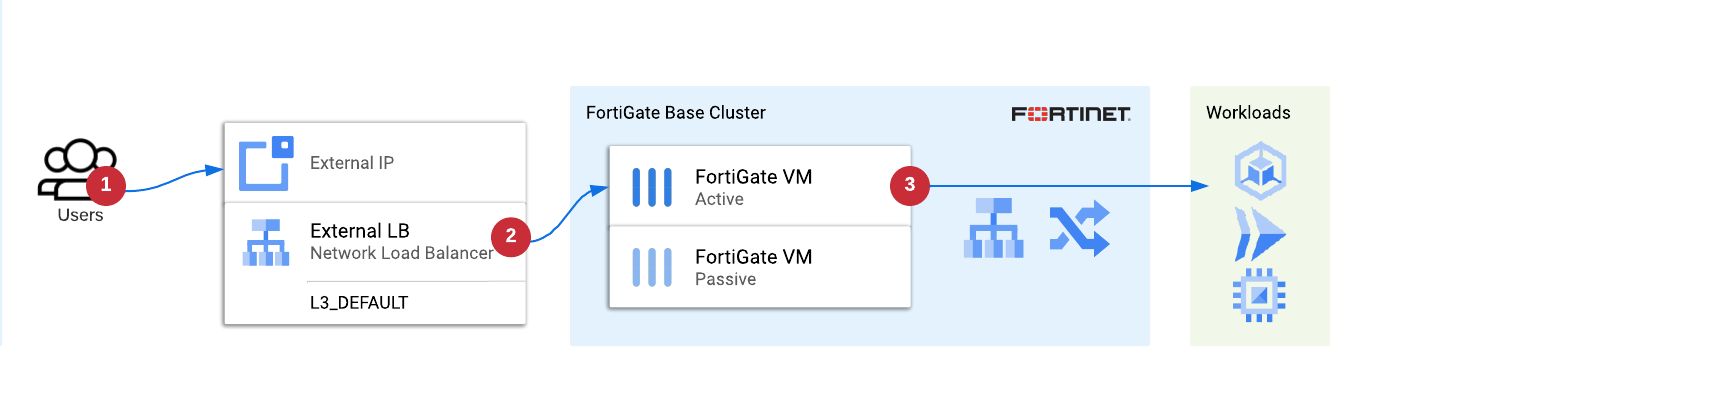
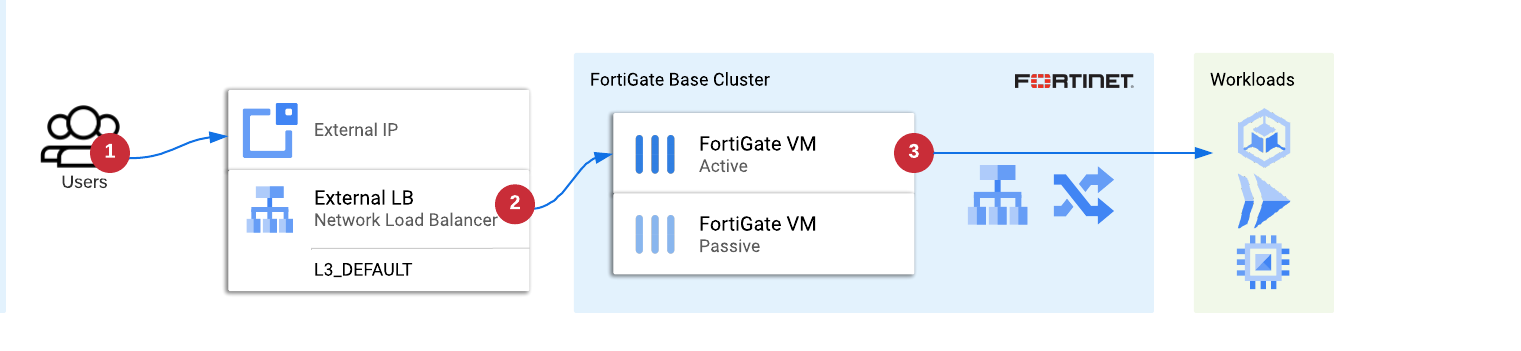
doc updates

Changed region(s): [[0.0, 0.1425, 0.8652, 0.9117], [0.0, 0.8262, 0.0309, 0.8832]]

diff --git a/FortiGate/architectures/reference/ha.md b/FortiGate/architectures/reference/ha.md
@@ -1,0 +1,50 @@
+#### FortiGate Reference Architecture for GCP
+# FortiGate HA Cluster Base
+
+Regardless of the placing of your FortiGate VM instances in GCP infrastructure some parts of the architecture are common for all use-cases. This article describes the recommended design for the cluster, prerequisites and some best practices.
+
+## Prerequisites
+Before deploying FortiGate VMs you need to prepare 2 types of resources:
+1. Service account
+1. VPC Networks and subnets
+
+**Service account** is a type of GCP IAM account dedicated for use by VMs and services. When deploying any VM in GCP you can assign it a service account, which the VM will be using to connect to GCP APIs. VM can download temporary tokens for its service account from the private metadata service (169.254.169.254) thus removing the necessity to manually handle service account keys (generating keys for service account should be always your last option).
+
+FortiGate uses service account during boot-up to verify it actually is running in Google Cloud, as well as in Fabric Connector (a.k.a. SDN Connector) so it can use of metadata instead of IP addresses in firewall address objects. By default all new VMs are assigned the built-in *Default Compute Engine Service Account*, which by default has project Owner role. Following the minimum privilege principle you SHOULD create a dedicated role and account for your FortiGate appliances. Check [here](../docs/sdn_privileges.md) how to create them and what are the required privileges your FortiGates do need.
+
+**VPC Networks and subnets** - as FortiGates will be deployed as multi-NIC VMs and in Google Cloud each NIC of a VM instance must be connected to a separate VPC Network, you MUST create 4 (four) separate VPC Networks and subnets. Subnets MUST be in the same region as the FortiGates and cannot have overlapping IP ranges. The templates allocate static IP addresses automatically so there's no need for the subnets to be empty.
+
+## VM instances and networks
+FortiGates are deployed as 2 VM instances in 2 different availability zones of the same region, with 4 NICs each:
+- port1 (nic0) - external (untrusted) traffic
+- port2 (nic1) - internal (trusted) traffic
+- port3 (nic2) - heartbeat and FGCP configuration sync
+- port4 (nic3) - dedicated management interface
+
+*Note that more internal NICs might be needed if the number of security zones (VPCs) in east-west segmentation use-case exceeds maximum size of a peering group (25).*
+
+*Note2: starting from firmware 7.0 you can use the same NIC for FGCP heartbeat and management*
+
+Machine type depends on your use-case, but to accommodate for 4 NICs it must have 4 vCPUs or more. We recommend starting with N2-standard-4 instance for firewalling and threat inspection use-cases and with C2-standard-4 if the main use-case is VPN-related.
+
+You should create and attach a logdisk to each instance to store log data.
+
+FortiGates shall be configured in a unicast FGCP active-passive cluster with heartbeat over port3 and dedicated management on port4. Port4 can be optionally linked to an external IP unless the private IP addresses of the interfaces are available in another way (e.g. via VLAN attachment). No other NICs need public IP addresses. Port3 needs a static private IP address as it's part of the configuration of the peer instance in the cluster. Other NICs can be configured with static IP addresses for consistency.
+
+Outbound connections from port1 to Google Compute API and FortiGuard services must be made available, preferably using Cloud NAT or using public IPs attached directly to port1 of each VM.
+
+## Load Balancers and traffic flows
+Cloud infrastructure directs traffic flows to the active FortiGate instance using load balancers. In this case load balancers will not really balance the connections but simply direct them to the single active (healthy) instance and not to the passive (unhealthy) one. Both Internal and Extenral Load Balancers in GCP can use a Backend Service as the target. You will have to create a separate regional Backend Service resource for each interface receiving production traffic (port1 and port2, but not port3 and port4) as well as a Forwarding Rule to bind a load balancer frontend IP address with the backend service. You can re-use the same Unmanaged Instance Groups for all Backend Services. Mind that in case of processing both the traffic from public Internet as well as traffic from Interconnect you will have to create both external and internal load balancer for port1. When creating load balancers using web console their internal components (Backend Service, Forwarding Rule) might be not explicitly visible.
+
+Internal Load Balancers will be used as next hop by custom routes and it's enough to use a rule for any port of either TCP or UDP protocol. Custom route will automatically enable routing of all TCP/UDP/ICMP traffic.
+
+External Load Balancer does not support routing, so the connections to its public IP addresses will have to be terminated or translated on the active FortiGate. It's recommended to use the new L3_DEFAULT protocol for ELB.
+
+## Health Checks and HA Failover
+Load Balancers detect active instance using health checks. There are 3 possibilities to handle the health probes:
+
+1. Responding to probes directly on the FortiGate using secondary IP addresses of the interface - this is the easiest solution recommended in most cases (requires least configuration on FortiGate), but it's limited by the maximum number of secondary addresses
+2. Creating additional loopback interface and redirecting probes to it using VIPs - this solution is recommended if you create FortiGate configuration using terraform as (unlike secondary IPs) the VIPs and firewall policies can be easily created and destroyed. It's also recommended to use this approach if you have many public IP addresses.
+3. Forwarding probes to the backend server - this solution is not recommended as a failover of a single backend service will attempt to fail over whole firewall cluster, which in many cases will not match the FGCP status.
+
+Connection Tracking feature of GCP load balancers (in preview at the time of writing) allows graceful failover of existing connections. Use it if your company policy allows using Google Compute Beta API.

diff --git a/FortiGate/architectures/reference/terraform/day0/README.md b/FortiGate/architectures/reference/terraform/day0/README.md
@@ -1,12 +1,14 @@
-# FortiGate Reference Architure for Google Cloud
+# FortiGate Reference Architure for Google Cloud - Terraform
 ## Base module (day0)
 
 This configuration deploys a cluster of FortiGates into GCP and connects them to 4 subnets. The subnets might be created before and their **names** be provided to the fgcp-ha-ap-lb module in `subnets` variable, or the VPCs and subnets can be created as part of this configuration (eg. using sample-networks module). Day0 "base" deployment does not offer any network functionality and is simply a foundation required by all Day1 modules.
 
 The design is using a "load balancer sandwich" design with ILBs (Internal Load Balancers) used as custom route next-hop for detecting currently active instance and routing traffic through it. Using load balancers guarantees fast failover time (~10 secs.) and stateful failover (currently in preview). Base configuration includes the ILB on trusted side of the cluster as it will be necessary for all use-cases (except for NCC integration).
 
+More details on the design can be found [here](../../ha.md).
+
 ### Prerequisites
-FortiGate uses its External Fabric Connector (a.k.a. SDN Connector) to support firewall policies based on GCE metadata instead of just IP addresses. In order for Connector to function, the FortiGate instances must be given access to all needed projects. It is highly recommended to use the minimum set of privileges by creating a custom role and a service account using `service_account_create.sh` script and providing service account name in `service_account` module variable. Otherwise the default GCE account will be used.
+FortiGate uses its External Fabric Connector (a.k.a. SDN Connector) to support firewall policies based on GCE metadata instead of just IP addresses. In order for Connector to function, the FortiGate instances must be given access to all needed projects. It is highly recommended to use the minimum set of privileges by creating a custom role and a service account using `[service_account_create.sh]`(../../service_account_create.sh) script and providing service account name in `service_account` module variable. Otherwise the default GCE account will be used.
 
 You should create VPC networks and subnets in the region where you plan to deploy FortiGates before or as a part of day0 configuration. Make sure the `subnets` argument passed to the `fgcp-ha-ap-lb` module points to the proper subnets. You will need 4 VPCs connected to 4 different network interfaces of your FortiGate instances:
 - port1 (nic0) - external (untrusted) network
@@ -22,22 +24,24 @@ Following resources will be created:
 - zonal unmanaged instance groups
 - backend service
 - internal load balancer
-- default (0.0.0.0/0) custom route with ILB as the next hop
 - external IP addresses to be used for management
-- set of reserved internal addresses
+- multiple reserved internal addresses
 
 ## How to deploy
-1. Run service_account_create.sh to create new service account and IAM role
-1. If you want to use existing subnets: edit main.tf to point to them in `subnets` argument of `fortigates` module
-1. If you want to create sample subnets: uncomment reference to `sample_networks` in `main.tf`
+1. (optionally) run [service_account_create.sh](../../service_account_create.sh) to create new service account and IAM role
+1. If you want to use existing subnets:
+    1. edit main.tf to point to them in `subnets` argument of `fortigates` module AND
+    1. comment reference to `sample_networks` module as well as explicit dependency to it in `main.tf`
 1. Add your FortiGate license files (*.lic) to the day0 directory and update file names in `license_files` argument for `fortigate` module in `main.tf` file
+1. Add your desired resource name prefix to `terraform.tfvars` as `prefix` variable (defaults to "fgt-")
 1. Use `./deploy.sh` to initialize and deploy the configuration to your default project and region or follow the usual terraform flow:
     1. run `terraform init`
     1. run `terraform plan -out day0.plan` and review the list of resources to be created
     1. run `terraform apply day0.plan` to create resources
+1. Proceed to [day1](../day1) for the next steps
 
-After everything is deployed you can connect to the management NIC of primary FortiGate using SSH or HTTPS (on standard ports) via the first IP address printed in `fgt-mgmt-eips`. Log in as **admin**, the initial password is set to primary instance id (for convenience visible as `default_password` output).
+After everything is deployed you can connect to the management NIC of primary FortiGate using SSH or HTTPS (on standard ports) via the first IP address printed in `fgt-mgmt-eips`. Log in as **admin**, the initial password is set to primary instance id (for convenience visible as `default_password` output). You can verify the FortiGates are both up and running, licensed and clustered by running `get sys ha status` in FortiGate CLI.
 
 ## How to clean up
-1. Make sure you do not have any day1 configuration deployed, eg. by going to day1 and running `terraform show` (you should see empty output)
-1. go back in day0 run `terraform destroy`
+1. Make sure you do not have any day1 configuration deployed, eg. by going to day1 directory and running `terraform show` (you should see empty output)
+1. in day0 directory run `terraform destroy` and confirm

diff --git a/FortiGate/architectures/reference/README.md b/FortiGate/architectures/reference/README.md
@@ -20,7 +20,7 @@ This part of the repository is use-case centric. It was created to help you matc
 
 ## Architecture
 The recommended way to deploy FortiGates is a multi-AZ Active-Passive FGCP cluster with set of (up tp 3) load balancers to direct the traffic flows (a pattern known as "load balancer sandwich"):
-![FortiGate reference architecture overview](../../docs/img/fgt-ref-overview2.png)
+![FortiGate reference architecture overview](../../docs/img/fgt-ref-overview3.png)
 
 [Read more about the reference architecture design and best practices](base.md)
 
@@ -34,7 +34,7 @@ FortiGate instances empowered by FortiGuard services can be used to secure your 
 To publish a service via FortiGate the following components are used:
 - new public IP address and external network load balancer in GCP
 - VIP and firewall policy in FortiGate
-- internal load balancer and a static sutom route to handle return flow
+- internal load balancer and a static custom route to handle return flow
 
 Although the workloads could be deployed directly into trusted VPC, they are usually placed in separate VPC (often in a different project), which is peered with trusted. You can use simple or shared VPCs for hosting workloads.
 
@@ -79,6 +79,8 @@ This solution uses set of custom routes and load balancers to direct traffic fro
 ### SD-WAN / Remote Access
 
 Providing access to remote users as well as from micro, small and large offices using VPN, SD-WAN or ZTNA technologies is one of the most common use-cases for FortiGates in the public cloud. This use-case follows the same setup as the Ingress N-S Inspection and does not have dedicated templates or deployment scripts.
+
+VPN tunnels should be built towards ELB public IP address, which is to be added as secondary IP to the port1 interface.
 
 ## How To Deploy
 * [using Terraform](terraform/)

diff --git a/FortiGate/architectures/reference/terraform/day1/README.md b/FortiGate/architectures/reference/terraform/day1/README.md
@@ -1,0 +1,21 @@
+# FortiGate Reference Architure for Google Cloud - Terraform
+## Day 1 - Adding desired functionality
+
+Day1 templates allow you to add and remove functionality from your existing FortiGate cluster. It is, and it should be treated as a merely example of possibilities and is not meant to be a complete production-ready set of modules for your own production deployment.
+
+The example configuration will deploy the following:
+1. Inbound inspection module
+1. Outbound inspection module
+1. VPC Peering to the workload VPC
+1. Example workload server running nginx
+
+## How to deploy
+1. Prepare a VPC and a subnet to host your workload server. The CIDR range must not overlap with the IP space you used in day0 for the FortiGates. Make sure you deleted the default route to 0.0.0.0 and added a firewall rule allowing inbound connections to port 80.
+1. Note down the selfLink of your subnet and provide it as `wrkld_demo_subnet` variable in terraform.tfvars file or when prompted by terraform
+1. Initialize terraform by running `terraform init`
+1. Create and verify a plan by running `terraform plan -out tf.plan`
+1. Deploy by running `terraform apply tf.plan`
+1. Wait up to a minute and test connection over http to the IP address visible in the outputs.
+
+## How to clean up
+Run `terraform destroy`

diff --git a/FortiGate/architectures/reference/terraform/README.md b/FortiGate/architectures/reference/terraform/README.md
@@ -1,5 +1,4 @@
-# FortiGate reference architecture for GCP
-## Deployment and management using Terraform
+# FortiGate reference architecture for GCP - Terraform
 
 This repo contains terraform modules to deploy and manage FortiGate reference architecture in Google Cloud. It uses both Google Cloud as well as FortiOS providers to demonstrate high agility of managing FortiGate appliances together with cloud using IaC approach.
 
